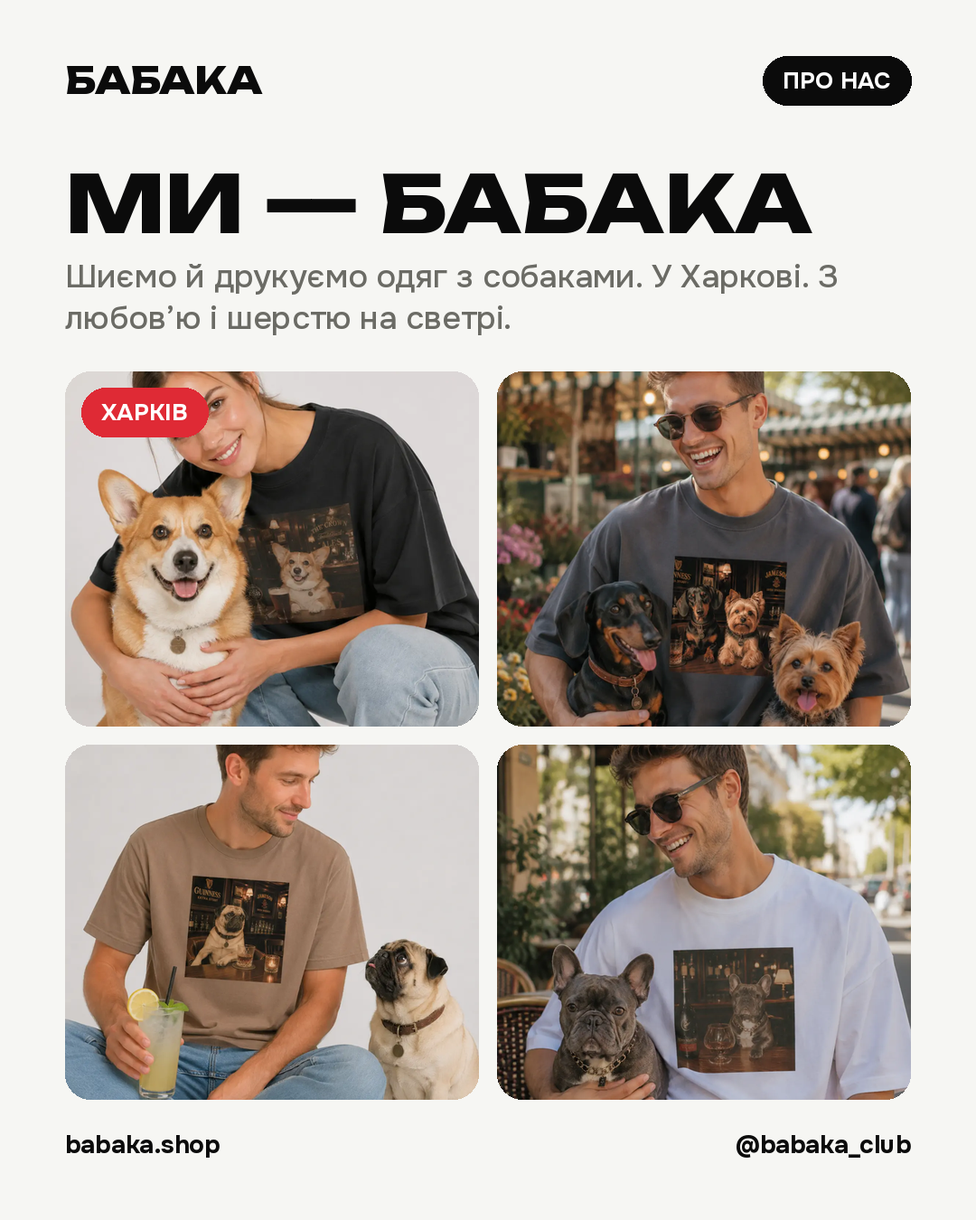
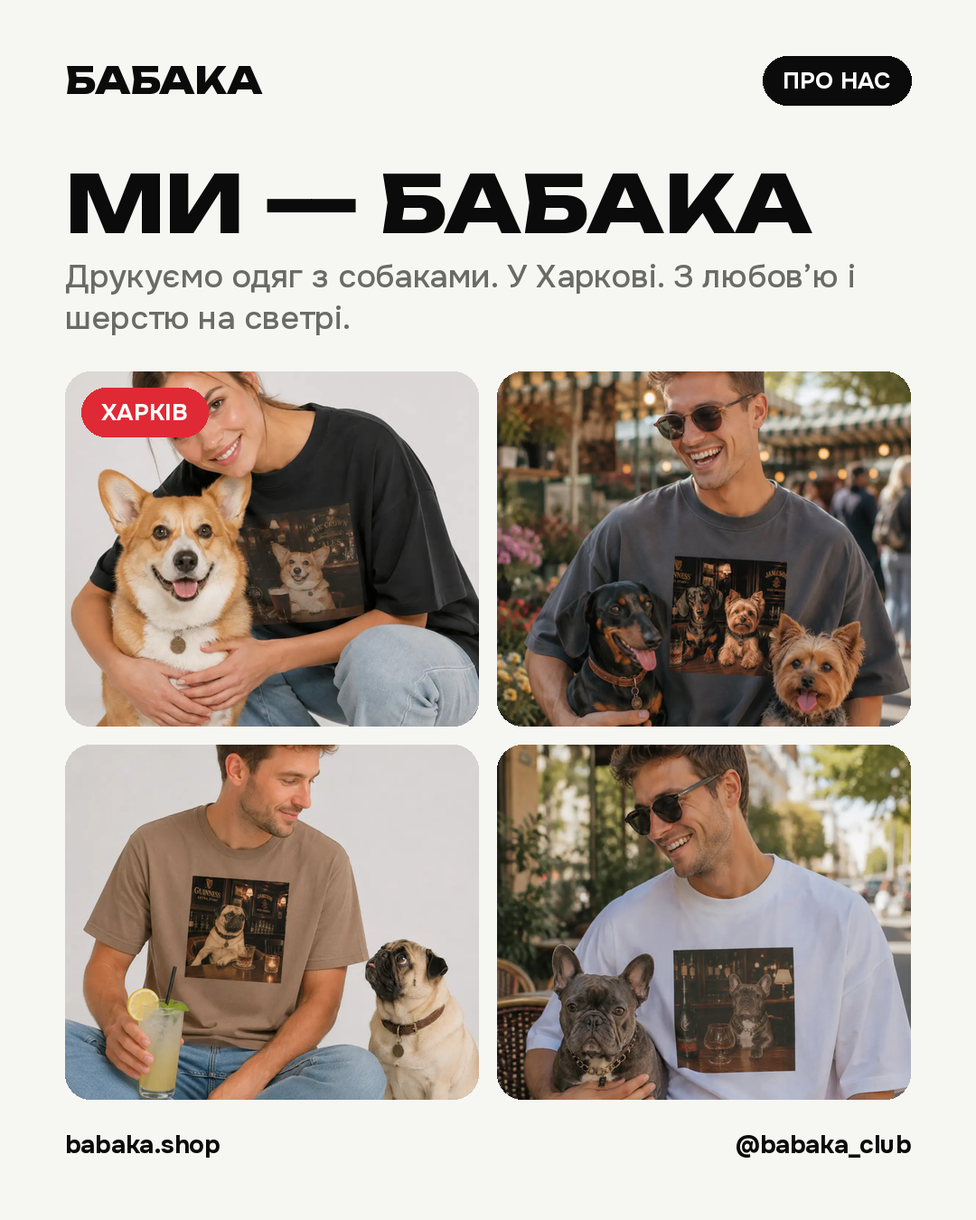
Без згадок про власне пошиття: /opt, сід-тексти, план і пости Instagram
Рішення Олексія (01.10, підтверджено 13.10): «шиємо» не пишемо, «друкуємо у Харкові» лишається.

- /opt: meta description, лід, лічильник «виробів на вибір», «На чому друкуємо»
- prisma/pages: marketing, articles, legal.json (оферта 5.2 «виготовляємо») — лише сід, живі тексти в БД правляться в адмінці
- instagram-2026-10: план (пости 01, 02, 03, 04, 07, 10), README, render.py; перемальовано posts/01.png і 04.png (кроки: Принт, Друк, Перевірка, Пакування)

Claude-Session: https://claude.ai/code/session_01TnhVAoChCFhSYfQNg6KfnT

Changed region(s): [[0.0611, 0.2178, 0.8556, 0.28]]

diff --git a/apps/api/prisma/pages/marketing.ts b/apps/api/prisma/pages/marketing.ts
@@ -27,12 +27,12 @@ export const COOPERATION: PageSeed = {
   title: 'Співпраця та опт',
   excerpt: 'Оптові партії, мерч під логотипом, подарунки клієнтам. Працюємо із зоомагазинами, вет-клініками, грумінг-салонами та притулками.',
   seoTitle: 'Співпраця та опт — {{brand}}',
-  seoDescription: 'Оптові партії, мерч під логотипом, подарунки клієнтам. Працюємо із зоомагазинами, вет-клініками, грумінг-салонами та притулками. Шиємо й друкуємо {{cityIn}}.',
+  seoDescription: 'Оптові партії, мерч під логотипом, подарунки клієнтам. Працюємо із зоомагазинами, вет-клініками, грумінг-салонами та притулками. Друкуємо {{cityIn}}.',
   blocks: [
     {
       id: 'hero', type: 'hero', tone: 'sun',
       eyebrow: '', heading: 'Опт, мерч і спільні проєкти',
-      lead: 'Ми маленьке виробництво {{cityIn}}: шиємо самі й друкуємо самі. Через це беремося за тиражі, від яких великі цехи відмовляються — від десяти штук, з різними розмірами й різними принтами в одній партії.',
+      lead: 'Ми маленьке виробництво {{cityIn}}: друкуємо самі. Через це беремося за тиражі, від яких великі цехи відмовляються — від десяти штук, з різними розмірами й різними принтами в одній партії.',
       footnote: '', links: [],
     },
     {
@@ -117,7 +117,7 @@ export const OWN_IDEA: PageSeed = {
       items: [
         { title: 'Надсилаєш фото', text: 'Три-чотири кадри при денному світлі: морда крупно й кілька в повний зріст. Телефонні фото підходять.' },
         { title: 'Погоджуємо ескіз', text: 'Обираємо жанр або принт для адаптації, малюємо й показуємо ескіз до друку. Правки на цьому етапі безкоштовні.' },
-        { title: 'Друкуємо і шиємо', text: 'Після твого «так» друкуємо на обраному виробі й відправляємо Новою поштою.' },
+        { title: 'Друкуємо й відправляємо', text: 'Після твого «так» друкуємо на обраному виробі й відправляємо Новою поштою.' },
         // Четвертий крок Даша лишила відкритим — це наша пропозиція: закрити
         // цикл отриманням і поділитися фото. Працює і як соцдоказ.
         { title: 'Отримуєш і хвалишся', text: 'Зустрічаєш посилку — і лови компліменти на прогулянці. Надішли нам фото в речі: з твого дозволу покажемо її в наших соцмережах.' },
@@ -128,7 +128,7 @@ export const OWN_IDEA: PageSeed = {
       heading: 'Що ми обіцяємо',
       items: [
         { icon: 'heart', title: 'Схожість', text: 'Якщо на ескізі не впізнаєш свого пса — переробляємо, не питаючи.' },
-        { icon: 'scissors', title: 'Шиємо самі', text: 'Виріб і друк — одне виробництво {{cityIn}}, без посередників.' },
+        { icon: 'scissors', title: 'Друкуємо самі', text: 'Друк і пакування — одне виробництво {{cityIn}}, без посередників.' },
         { icon: 'shield', title: 'Твоє фото — твоє', text: 'Не публікуємо роботу без твого дозволу. Детальніше — у [політиці](/pryvatnist).' },
       ],
     },

diff --git a/apps/web/src/app/opt/page.tsx b/apps/web/src/app/opt/page.tsx
@@ -18,7 +18,7 @@ export async function generateMetadata(): Promise<Metadata> {
     title: `Опт і мерч для кінологів, вет-клінік, притулків і dog-спільнот | ${site.brand}`,
     description:
       'Футболки, худі й світшоти з собаками або вашим логотипом — від 10 штук, різні розміри й принти '
-      + `в одній партії. Шиємо й друкуємо ${site.cityIn}. Розрахунок і мокап безкоштовно.`,
+      + `в одній партії. Друкуємо ${site.cityIn}. Розрахунок і мокап безкоштовно.`,
     alternates: { canonical: '/opt' },
   };
 }
@@ -123,7 +123,7 @@ export default async function OptPage() {
           Мерч із собаками <span className="ghost-word">для тих, хто працює</span> <span className="wave-underline text-accent">з собаками</span>
         </h1>
         <p className="mt-6 max-w-2xl text-lg leading-relaxed text-ink-muted">
-          Кінологи, вет-клініки, грумери, притулки, клуби порід. Шиємо й друкуємо самі {site.cityIn} —
+          Кінологи, вет-клініки, грумери, притулки, клуби порід. Друкуємо самі {site.cityIn} —
           тому беремося за тиражі від 10 штук, з різними розмірами й принтами в одній партії.
         </p>
         <div className="mt-8 flex flex-wrap gap-3">
@@ -133,7 +133,7 @@ export default async function OptPage() {
         <dl className="mt-12 grid grid-cols-2 gap-6 border-t border-ink pt-8 md:grid-cols-4">
           {[
             { n: '10+', l: 'штук — мінімальна партія' },
-            { n: String(garments.length > 0 ? garments.length : 7), l: 'виробів власного пошиття' },
+            { n: String(garments.length > 0 ? garments.length : 7), l: 'виробів на вибір' },
             { n: breedCount > 0 ? String(breedCount) : '30+', l: 'порід уже намальовано' },
             { n: '0 ₴', l: 'розрахунок і мокап' },
           ].map((s) => (
@@ -191,7 +191,7 @@ export default async function OptPage() {
           </div>
           {garments.length > 0 && (
             <div>
-              <p className="label-eyebrow text-surface/60">На чому — шиємо самі</p>
+              <p className="label-eyebrow text-surface/60">На чому друкуємо</p>
               <ul className="mt-6 divide-y divide-surface/15 border-y border-surface/15">
                 {garments.map((g) => (
                   <li key={g.id} className="flex flex-wrap items-baseline justify-between gap-x-4 gap-y-1 py-4">

diff --git a/apps/api/prisma/pages/articles.ts b/apps/api/prisma/pages/articles.ts
@@ -29,7 +29,7 @@ export const CARE_ARTICLE: PageSeed = {
       id: 'intro', type: 'text', tone: 'plain',
       heading: '',
       paragraphs: [
-        'Ми шиємо й друкуємо самі, тож бачимо обидва кінці історії: і те, як виріб виходить із цеху, і те, у якому стані він повертається, коли щось пішло не так. Майже завжди причина одна — і майже завжди її можна було уникнути за пʼять секунд.',
+        'Ми друкуємо самі, тож бачимо обидва кінці історії: і те, як виріб виходить із цеху, і те, у якому стані він повертається, коли щось пішло не так. Майже завжди причина одна — і майже завжди її можна було уникнути за пʼять секунд.',
         'DTF-друк тримається на тканині плівкою, припресованою в волокно. Він не боїться прання як такого. Він боїться **високої температури**, **тертя лицьовим боком** і **прасування прямо по малюнку**. Усе інше — деталі.',
       ],
       bullets: [],

diff --git a/docs/marketing/instagram-2026-10/render.py b/docs/marketing/instagram-2026-10/render.py
@@ -81,7 +81,7 @@ posts = []
 # 01 intro
 def p01():
     img, d = new(PAPER); chrome(img, d, PAPER, INK, 'ПРО НАС', INK, WHITE)
-    y, _ = head(d, 'Ми — БАБАКА', 'Шиємо й друкуємо одяг з собаками. У Харкові. З любов’ю і шерстю на светрі.', INK, GREY)
+    y, _ = head(d, 'Ми — БАБАКА', 'Друкуємо одяг з собаками. У Харкові. З любов’ю і шерстю на светрі.', INK, GREY)
     top = y + 36; bottom = H - P - 60; gap = 20
     cw = (W - 2 * P - gap) // 2; ch = (bottom - top - gap) // 2
     for i, f in enumerate(['pab-korhi.webp', 'pab-taksa-i-york.webp', 'pab-mops.webp', 'pab-frantsuz.webp']):
@@ -124,17 +124,17 @@ posts.append(('03 Портрет з фото — Твій пес твій при
 # 04 BTS
 def p04():
     img, d = new(INK); chrome(img, d, INK, WHITE, 'ЗАКУЛІССЯ', YEL, INK)
-    y, _ = head(d, 'Шиємо в Харкові', 'Від рулону тканини до коробки на Новій пошті.', WHITE, (201, 201, 194))
+    y, _ = head(d, 'Друкуємо в Харкові', 'Від файлу принта до коробки на Новій пошті.', WHITE, (201, 201, 194))
     f = font('disp', 200); d.text((P - 6, y + 30), '4–7', font=f, fill=YEL)
     f2 = font('b', 40); d.text((P, y + 30 + 230), 'робочих днів на кожне замовлення', font=f2, fill=WHITE)
-    steps = ['Розкрій', 'Друк', 'Пошив', 'Пакування']
+    steps = ['Принт', 'Друк', 'Перевірка', 'Пакування']
     top = y + 30 + 320; bottom = H - P - 70; gap = 16; cw = (W - 2 * P - 3 * gap) // 4
     for i, s in enumerate(steps):
         x = P + i * (cw + gap); d.rounded_rectangle([x, top, x + cw, bottom], radius=28, fill=(30, 30, 28))
         d.text((x + 24, top + 22), f'0{i+1}', font=font('disp', 44), fill=RED)
         text_block(d, (x + 24, bottom - 64), s, 'b', 32, WHITE, cw - 40, minsize=24, maxlines=1, name=s)
     return img
-posts.append(('04 Закулісся — Шиємо в Харкові', p04))
+posts.append(('04 Закулісся — Друкуємо в Харкові', p04))
 
 posts.append(('05 Порода тижня — Мопс у пабі', lambda: breed(INK, WHITE, (201, 201, 194), 'БАБАКИ В ПАБІ', YEL, INK, 'Мопс у пабі', 'Колекція «Бабаки в пабі»: бо п’ятниця в кожного своя.', 'pab-mops.webp')))
 

diff --git a/docs/marketing/instagram-2026-10/plan.md b/docs/marketing/instagram-2026-10/plan.md
@@ -13,7 +13,7 @@
 - Свій принт з фото пса: адаптація +200 ₴ за одне місце нанесення
 - Опт і мерч від 10 шт: babaka.shop/opt
 - Колекції: «Бабаки в пабі», «Бабака UA» та інші: babaka.shop/collections
-- Шиємо й друкуємо в Харкові. Засновники: Даша та Олексій. Раніше ми звались Kudos print
+- Друкуємо в Харкові (про власне пошиття не пишемо: рішення Олексія, 01.10 і 13.10). Засновники: Даша та Олексій. Раніше ми звались Kudos print
 
 Ціни на товари, знижки, промокоди, умови й терміни доставки та будь-яку статистику понад цей список **не вигадуємо**.
 
@@ -40,13 +40,13 @@
 ### 01 · Пн 19.10 · Знайомство: «Ми — БАБАКА»
 - **Мета:** довіра
 - **Візуал:** кремовий фон, великий заголовок, сітка 2×2 з чотирьох реальних принтів (Коргі, Такса, Мопс, Француз). Червона плашка «Харків».
-- **На зображенні:** «Ми — БАБАКА» / «Шиємо й друкуємо одяг з собаками. У Харкові. З любов’ю і шерстю на светрі».
+- **На зображенні:** «Ми — БАБАКА» / «Друкуємо одяг з собаками. У Харкові. З любов’ю і шерстю на светрі».
 - **Лінк:** сторіз → babaka.shop/pro-nas
 - **Підпис:**
 
 > Привіт! Ми — БАБАКА 🐾 (так, раніше нас знали як Kudos print).
 >
-> Ми — Даша й Олексій, і ми в Харкові шиємо та друкуємо футболки, худі й світшоти з собаками. 38 порід, 84 принти, а якщо твого пса немає в каталозі — намалюємо його з фото.
+> Ми — Даша й Олексій, і ми в Харкові друкуємо футболки, худі й світшоти з собаками. 38 порід, 84 принти, а якщо твого пса немає в каталозі — намалюємо його з фото.
 >
 > Ще з нами Боня (головна модель) і Паштет (відділ контролю якості. Так, він кіт).
 >
@@ -67,7 +67,7 @@
 > Якщо твоя такса теж вважає себе ротвейлером у душі — їй потрібен свій принт. А тобі — худі з ним.
 >
 > Усі принти з таксами (і такса з йорком у пабі) — за лінком у шапці профілю → Породи → Такса.
-> Шиємо під замовлення за 4–7 робочих днів, відправляємо Новою поштою по всій Україні.
+> Друкуємо під замовлення за 4–7 робочих днів, відправляємо Новою поштою по всій Україні.
 >
 > Тегни таксятника, який має це побачити 👇
 >
@@ -89,7 +89,7 @@
 > 1. Заходиш на babaka.shop/svoya-ideya
 > 2. Завантажуєш фото й обираєш виріб
 > 3. Ми адаптуємо фото в принт
-> 4. Шиємо за 4–7 робочих днів
+> 4. Друкуємо за 4–7 робочих днів
 >
 > Гроші під захистом банку, поки ти не підтвердиш замовлення.
 >
@@ -99,20 +99,20 @@
 
 ## Тиждень 2
 
-### 04 · Пн 26.10 · Закулісся: як народжується худі
+### 04 · Пн 26.10 · Закулісся: як народжується принт на худі
 - **Мета:** довіра
-- **Візуал (карусель):** 1) обкладинка з заголовком; 2–5) реальні фото з цеху: розкрій, друк, пошив, пакування (знімає команда). На обкладинці — шкала «4–7 робочих днів».
-- **На зображенні:** «Шиємо в Харкові» / «Від рулону тканини до коробки — 4–7 робочих днів».
+- **Візуал (карусель):** 1) обкладинка з заголовком; 2–5) реальні фото: файл принта, друк, перевірка, пакування (знімає команда). На обкладинці — шкала «4–7 робочих днів».
+- **На зображенні:** «Друкуємо в Харкові» / «Від файлу принта до коробки — 4–7 робочих днів».
 - **Лінк:** сторіз → babaka.shop/pro-nas
 - **Підпис:**
 
 > Найчастіше питання: «А чому не завтра?» 😅
 >
-> Бо ми не беремо готове зі складу. Кожну річ друкуємо й шиємо під твоє замовлення тут, у Харкові. Свайпай →, щоб побачити весь шлях від рулону тканини до коробки на Новій пошті.
+> Бо ми не беремо готове зі складу. Кожну річ друкуємо під твоє замовлення тут, у Харкові. Свайпай →, щоб побачити весь шлях від файлу принта до коробки на Новій пошті.
 >
 > На все це йде 4–7 робочих днів. Боня особисто перевіряє кожну коробку (переважно носом).
 >
-> #зробленовхаркові #харків #українськийбренд #бабака #закулісся #шиємосами #одягзсобаками #принтзсобакою
+> #зробленовхаркові #харків #українськийбренд #бабака #закулісся #друкуємосами #одягзсобаками #принтзсобакою
 
 ### 05 · Ср 28.10 · Порода тижня: Мопс («Бабаки в пабі»)
 - **Мета:** продаж
@@ -161,7 +161,7 @@
 >
 > 💳 Чи безпечно оплачувати? Так. Гроші під захистом банку: вони утримуються, доки ти не підтвердиш замовлення.
 > 📦 Як доставляєте? Новою поштою по всій Україні.
-> ⏳ Скільки чекати? Виготовлення займає 4–7 робочих днів: шиємо під тебе, а не зі складу.
+> ⏳ Скільки чекати? Виготовлення займає 4–7 робочих днів: друкуємо під тебе, а не зі складу.
 > 📏 Як обрати розмір? Напиши нам у директ, який ти зазвичай носиш, і ми підкажемо.
 >
 > Збережи, щоб не загубити, і кидай питання в коментарі.
@@ -217,7 +217,7 @@
 > Тому показуємо колекцію «Бабака UA»: Шевченко, Франко, Сковорода, козак — у нашому, собачому прочитанні. «Світ ловив мене, та не впіймав», бо я був зайнятий: гриз капець.
 >
 > Вся колекція — за лінком у шапці профілю → Колекції → Бабака UA.
-> Шиємо в Харкові, відправляємо по всій Україні.
+> Друкуємо в Харкові, відправляємо по всій Україні.
 >
 > #бабакаua #деньукраїнськоїмови #українськийбренд #зробленовукраїні #бабака #одягзсобаками #харків #шевченко
 

diff --git a/docs/marketing/instagram-2026-10/README.md b/docs/marketing/instagram-2026-10/README.md
@@ -16,7 +16,7 @@
 | 01 | Знайомство | Ми — БАБАКА | /pro-nas |
 | 02 | Порода: такса | Такса. Довга історія | /breeds/taksa |
 | 03 | Портрет з фото | Твій пес. Твій принт | /svoya-ideya |
-| 04 | Закулісся | Шиємо в Харкові | /pro-nas |
+| 04 | Закулісся | Друкуємо в Харкові | /pro-nas |
 | 05 | Порода: мопс | Мопс у пабі | /collections |
 | 06 | Боня і Паштет | Так, він кіт | /insta |
 | 07 | FAQ | Питаєте — відповідаємо | /prints |
@@ -32,7 +32,7 @@
 
 Ці формулювання не з переліку перевірених фактів:
 
-- пости 02 і 04 — «шиємо під замовлення, не зі складу»;
+- пости 02 і 04 — «друкуємо під замовлення, не зі складу»;
 - пост 09 — обіцянка репостити найкращі фото в сторіз;
 - слот 11 — притулки можуть збирати донати через мерч;
 - FAQ — розміри підказуємо в директі (таблиці розмірів у постах немає).
